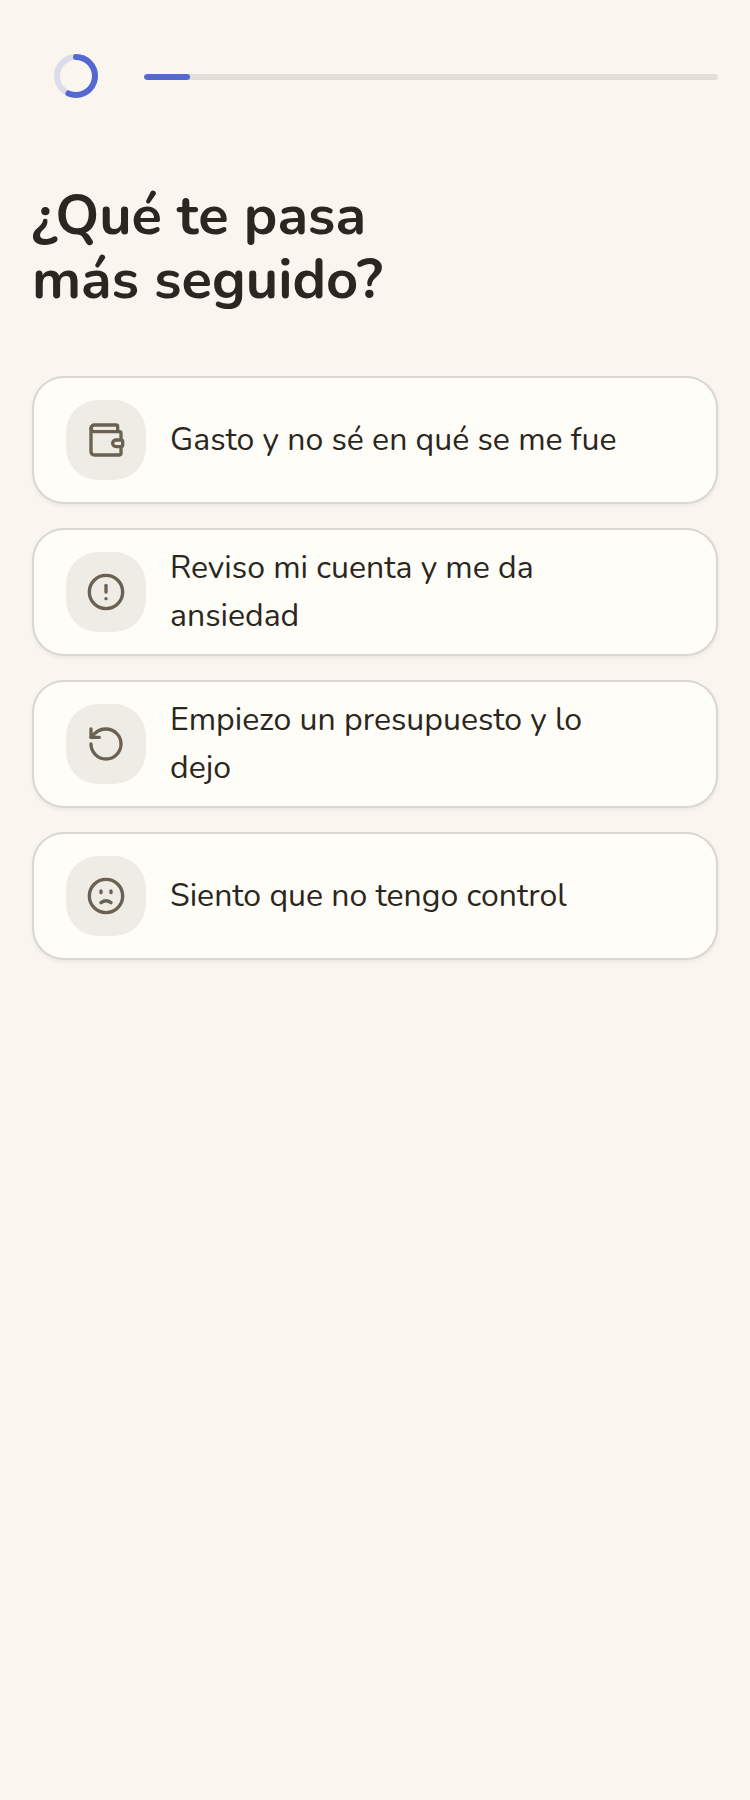
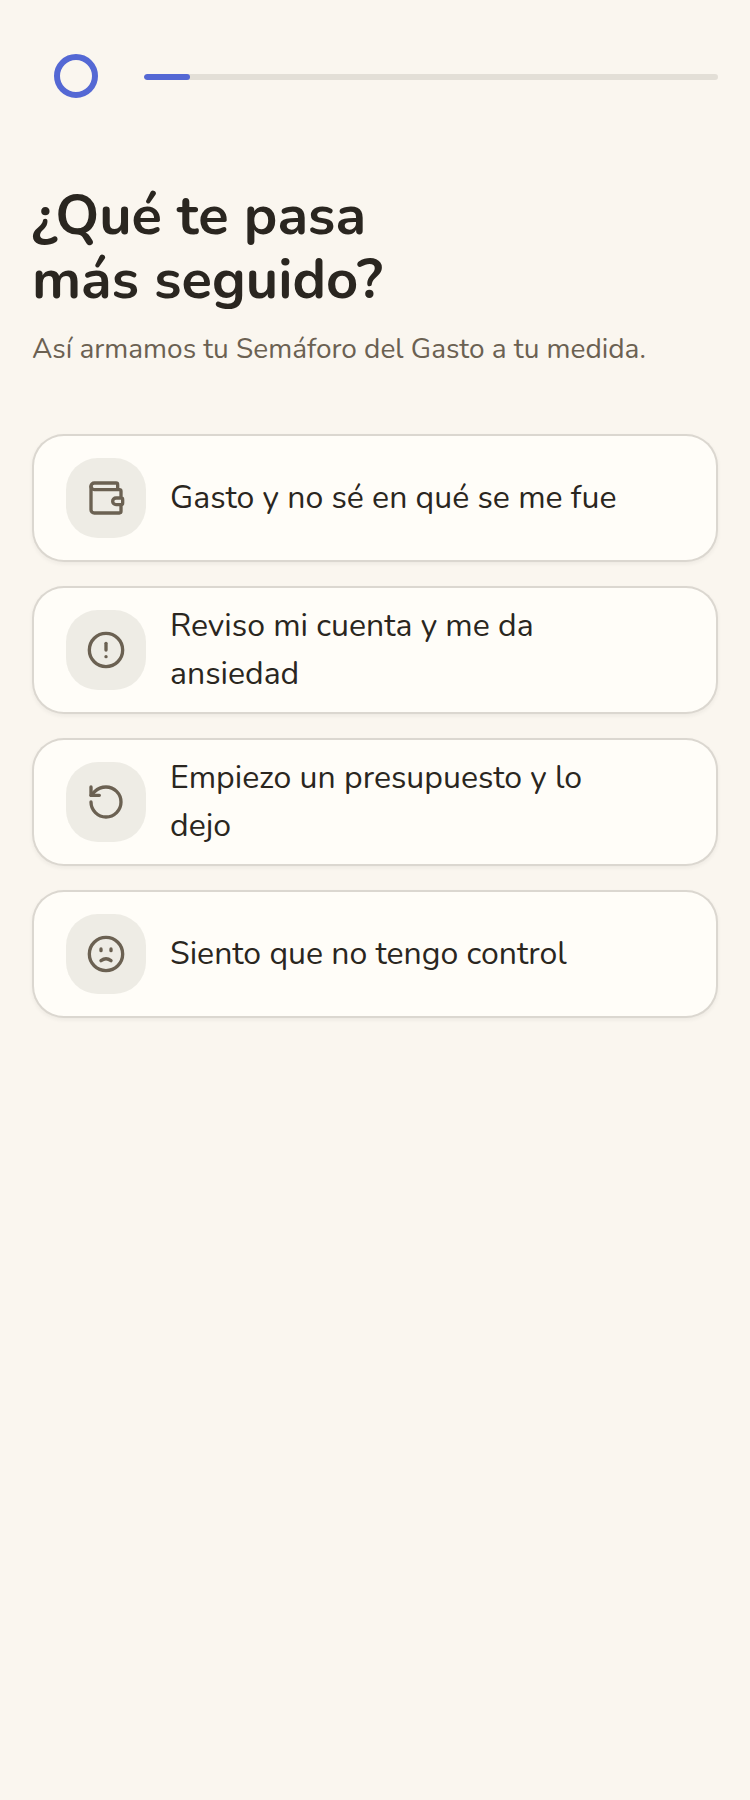
fix: 2ª ronda de correcciones en onboarding y paywall
- RespiraMark: nuevo prop `estatico` (anillo cerrado, sin animación) para
  usarlo junto a una barra de progreso real sin duplicar la señal de carga.
- FunnelScreen: agrega fondo con profundidad (mesh radial + eco del anillo)
  para que los pasos cortos no queden en un plano vacío.
- Onboarding paso 0: agrega línea de contexto, igual que el resto de pasos.
- Paywall: feedback táctil (whileTap) en las cards de plan y shadow-2 en la
  card seleccionada para un segundo nivel de elevación real.

Claude-Session: https://claude.ai/code/session_013BYtLeMwZuWh58hVzwvyD5

diff --git a/app/paywall/page.tsx b/app/paywall/page.tsx
@@ -135,13 +135,14 @@ export default function Paywall() {
           {/* Cards de plan */}
           <Bloque indice={2} reduce={reduce}>
             <div className="flex flex-col gap-3">
-              <button
+              <motion.button
                 type="button"
+                whileTap={{ scale: 0.98 }}
                 onClick={() => setPlan('anual')}
-                className={`relative rounded-[var(--radius-card)] border p-5 text-left shadow-[var(--shadow-1)] transition-colors ${
+                className={`relative rounded-[var(--radius-card)] border p-5 text-left transition-colors [touch-action:manipulation] ${
                   plan === 'anual'
-                    ? 'border-2 border-[var(--accent)] bg-[color-mix(in_oklab,var(--accent)_6%,transparent)]'
-                    : 'border-[color-mix(in_oklab,var(--text-tertiary)_25%,transparent)] bg-[var(--surface)]'
+                    ? 'border-2 border-[var(--accent)] bg-[color-mix(in_oklab,var(--accent)_6%,transparent)] shadow-[var(--shadow-2)]'
+                    : 'border-[color-mix(in_oklab,var(--text-tertiary)_25%,transparent)] bg-[var(--surface)] shadow-[var(--shadow-1)]'
                 }`}
               >
                 <span className="absolute -top-[10px] left-5 rounded-full bg-[var(--accent)] px-3 py-1 text-[11px] font-bold uppercase tracking-[0.06em] text-[var(--bg)]">
@@ -156,15 +157,16 @@ export default function Paywall() {
                 </div>
                 <p className="mt-1 text-[13px] text-[var(--text-secondary)]">{PLAN_ANUAL.totalAnual}</p>
                 <p className="mt-1 text-[13px] font-semibold text-[var(--accent)]">{PLAN_ANUAL.ahorro}</p>
-              </button>
+              </motion.button>
 
-              <button
+              <motion.button
                 type="button"
+                whileTap={{ scale: 0.98 }}
                 onClick={() => setPlan('mensual')}
-                className={`rounded-[var(--radius-card)] border p-5 text-left shadow-[var(--shadow-1)] transition-colors ${
+                className={`rounded-[var(--radius-card)] border p-5 text-left transition-colors [touch-action:manipulation] ${
                   plan === 'mensual'
-                    ? 'border-2 border-[var(--accent)] bg-[color-mix(in_oklab,var(--accent)_6%,transparent)]'
-                    : 'border-[color-mix(in_oklab,var(--text-tertiary)_25%,transparent)] bg-[var(--surface)]'
+                    ? 'border-2 border-[var(--accent)] bg-[color-mix(in_oklab,var(--accent)_6%,transparent)] shadow-[var(--shadow-2)]'
+                    : 'border-[color-mix(in_oklab,var(--text-tertiary)_25%,transparent)] bg-[var(--surface)] shadow-[var(--shadow-1)]'
                 }`}
               >
                 <div className="flex items-center justify-between gap-3">
@@ -174,7 +176,7 @@ export default function Paywall() {
                     <span className="text-[13px] font-normal text-[var(--text-secondary)]">/mes</span>
                   </span>
                 </div>
-              </button>
+              </motion.button>
             </div>
           </Bloque>
 

diff --git a/components/funnel/ui.tsx b/components/funnel/ui.tsx
@@ -35,7 +35,7 @@ export function FunnelHeader({
           </button>
         ) : (
           <a href="/" className="flex size-11 shrink-0 items-center justify-center [touch-action:manipulation]">
-            <RespiraMark duracionS={0.35} />
+            <RespiraMark estatico />
           </a>
         )}
         <div className="h-[3px] flex-1 overflow-hidden rounded-full bg-[color-mix(in_oklab,var(--text-tertiary)_14%,transparent)]">
@@ -163,7 +163,22 @@ export function FunnelScreen({
 }) {
   const reduce = useReducedMotion();
   return (
-    <div className="flex min-h-dvh flex-col bg-[var(--bg)] text-[var(--text-primary)] [font-family:var(--font-body)]">
+    <div className="relative flex min-h-dvh flex-col overflow-hidden bg-[var(--bg)] text-[var(--text-primary)] [font-family:var(--font-body)]">
+      {/* Fondo con profundidad (FICHA-ARTE: "sombras suaves tintadas") — mesh sutil
+          + eco del anillo de marca a baja opacidad, para que ningún paso corto
+          quede en un plano vacío. */}
+      <div
+        aria-hidden="true"
+        className="pointer-events-none absolute inset-0 -z-10"
+        style={{
+          background:
+            'radial-gradient(760px 480px at 50% -10%, color-mix(in oklab, var(--accent) 7%, transparent) 0%, transparent 60%), ' +
+            'radial-gradient(560px 420px at 100% 100%, color-mix(in oklab, var(--accent-2) 6%, transparent) 0%, transparent 55%)',
+        }}
+      />
+      <svg aria-hidden="true" viewBox="0 0 200 200" className="pointer-events-none absolute -bottom-24 -right-16 -z-10 size-[320px] opacity-[0.08]">
+        <circle cx="100" cy="100" r="86" fill="none" stroke="var(--accent)" strokeWidth="14" />
+      </svg>
       <FunnelHeader progreso={progreso} onBack={onBack} />
       <motion.div
         key={stepKey}

diff --git a/components/RespiraMark.tsx b/components/RespiraMark.tsx
@@ -10,10 +10,28 @@ import { motion, useInView, useReducedMotion } from 'motion/react';
 const CIRC = 44.7;
 const OBJETIVO = 11.2; // ~75% lleno
 
-export function RespiraMark({ duracionS = 0.9 }: { duracionS?: number }) {
+export function RespiraMark({
+  duracionS = 0.9,
+  estatico = false,
+}: {
+  duracionS?: number;
+  /** true = marca en reposo, anillo CERRADO y quieto — para headers junto a una
+   * barra de progreso real (dos elementos "a medio llenar" a la vez se leen como
+   * loaders duplicados). Sin esto, el gesto de "se llena al entrar" es el correcto
+   * (Hero, /entrar). */
+  estatico?: boolean;
+}) {
   const ref = useRef<SVGSVGElement>(null);
   const inView = useInView(ref, { once: true, amount: 0.8 });
   const reduce = useReducedMotion();
+
+  if (estatico) {
+    return (
+      <svg width="24" height="24" viewBox="0 0 24 24" fill="none" aria-hidden="true">
+        <circle cx="12" cy="12" r="9.5" stroke="var(--accent)" strokeWidth="3" />
+      </svg>
+    );
+  }
 
   return (
     <svg ref={ref} width="24" height="24" viewBox="0 0 24 24" fill="none" aria-hidden="true">

diff --git a/app/onboarding/page.tsx b/app/onboarding/page.tsx
@@ -48,6 +48,7 @@ export default function Onboarding() {
         <h1 className="text-balance text-[28px] font-bold leading-[1.15] text-[var(--text-primary)] [font-family:var(--font-display)]">
           ¿Qué te pasa más seguido?
         </h1>
+        <p className="mt-2 text-[14px] text-[var(--text-secondary)]">Así armamos tu Semáforo del Gasto a tu medida.</p>
         <div className="mt-8 flex flex-col gap-3">
           {OPCIONES_DOLOR.map((o, i) => (
             <OptionChip

diff --git a/docs/revisiones/onboarding-veredicto.md b/docs/revisiones/onboarding-veredicto.md
@@ -1,16 +1,9 @@
 # VEREDICTO revisor-visual — onboarding
-Fecha: 2026-09-17 12:00
+Fecha: 2026-09-17 00:00
 Screenshot: docs/revisiones/onboarding-375.png
-Usabilidad: 27/40
-Craft: 12/20
+Usabilidad: 30/40
+Craft: 13/20
 Copy (si vende): N-A
 Fidelidad (si hubo referencia): N-A
 Veredicto: NO LISTA
-Top defectos:
-1. [Composición general, mitad superior de la pantalla] ~35-40% del alto (entre la barra de progreso y el título) queda vacío sin ningún elemento, fondo plano puro — un usuario cualquiera lo nota sin buscarlo → cambiar `justify-center` por `justify-start` con padding fijo, o llenar ese espacio con un elemento de contexto (no dejarlo como resultado accidental del centrado vertical).
-2. [Las 4 opciones de respuesta] Aparecen todas juntas en un único bloque animado (mismo `stepKey` en FunnelScreen, sin stagger por ítem) — viola la animación baseline obligatoria "stagger de entrada 50-80ms" exigida para toda pantalla, y esta es la primera de su tipo en el proyecto → envolver el `.map(OPCIONES_DOLOR)` con delay incremental por índice (framer/motion `staggerChildren` o `delay: i * 0.06`) en app/onboarding/page.tsx u OptionChip.
-3. [Header, esquina superior izquierda] `RespiraMark` anima su anillo de 0%→75% en 900ms al entrar; en un frame estático (como el capturado) se lee como un spinner de carga, ambigüedad de "¿se colgó?" → acortar a <400ms o encadenarlo al mismo stagger de entrada para no dejar un frame parecido a loading.
-4. [Chips de opción vs. fondo] La superficie de los chips (#FFFDF8) y el fondo (#FAF6EF) son casi idénticos a la vista; solo se distinguen por un borde fino, sin la sombra tintada que exige FICHA-ARTE.md ("sombras suaves tintadas... nunca borde duro gris") → aplicar box-shadow sutil tintado (rgb 42,38,32 según ficha) a OptionChip en components/funnel/ui.tsx.
-5. [Opción "Empiezo un presupuesto y lo dejo"] Usa la palabra "presupuesto", listada explícitamente como vetada en FICHA-AVATAR.md ("jerga financiera técnica... el ángulo es emocional, no contable"); aunque ecoa la cita literal del dolor #3 de la propia ficha, hay una contradicción sin resolver entre el veto y el copy → reescribir en registro emocional (ej. "Intento organizarme y lo dejo a la semana") o resolver la contradicción en la ficha misma.
-
-Nota de método (no cuenta como defecto de diseño): el screenshot incluye el ícono de dev tools de Next.js (círculo negro "N", esquina inferior izquierda) — recapturar en modo producción o recortando ese overlay antes de la próxima revisión, para no contaminar el juicio visual.
+Top defectos: 1) Logo (header, esquina sup. izq.) sigue leyéndose como spinner de carga: la forma en reposo (anillo al 75%, arco incompleto) es idéntica a un loader a medio camino; el fix solo aceleró la animación (0.9s→0.35s) sin cambiar la forma que causa la confusión, y queda pegado a una barra de progreso real que refuerza la lectura de "algo está cargando". 2) El vacío muerto no se eliminó, se trasladó: los 4 chips terminan en ~60% de la altura y el ~40% inferior queda cream sólido sin ningún elemento — mismo síntoma (aire muerto) en otra posición. 3) Fondo de un solo fill plano (#FAF6EF) sin el mesh/tinte de profundidad que pide FICHA-ARTE; solo existe un nivel (chip elevado con shadow-1), falta base con textura y no hay nivel hundido — eje profundidad no pasa el gate. 4) Inconsistencia de ayuda contextual entre pasos: el paso 2 explica por qué se pregunta ("Así ajustamos cuándo te recordamos...") pero el paso 0 (esta pantalla) no da ningún contexto de por qué se pregunta esto primero. 5) La ficha que sustenta la excepción de "presupuesto" (FICHA-AVATAR.md) sigue en estado BORRADOR / "Aprobada por el usuario: NO" — la traza de copy de esta pantalla descansa sobre una ficha no cerrada.

diff --git a/docs/revisiones/paywall-veredicto.md b/docs/revisiones/paywall-veredicto.md
@@ -1,14 +1,14 @@
 # VEREDICTO revisor-visual — paywall
 Fecha: 2026-09-17 00:00
 Screenshot: docs/revisiones/paywall-375.png
-Usabilidad: 31/40
-Craft: 12/20
-Copy (si vende): 16/20
+Usabilidad: 32/40
+Craft: 16/20
+Copy (si vende): 19/20
 Fidelidad (si hubo referencia): N-A
 Veredicto: NO LISTA
 Top defectos:
-1. [Headline, app/paywall/page.tsx L86] Bug de copy verificado en código: cuando meta="ahorrar", el template genera "Tu Semáforo del Gasto para ahorrar para algo está listo" (doble "para" en el texto más visible de la pantalla) → reformular el template o los labels de meta para evitar la duplicación.
-2. [Zona timeline/CTA, esquina inferior izquierda] Insignia negra circular "N" (indicador de dev de Next.js) queda superpuesta sobre el bloque de trial y el botón CTA en la captura oficial de revisión → desactivar devIndicators o capturar desde build de producción.
-3. [Value-stack, plan cards, timeline — toda la pantalla] Las 3 cards usan solo borde plano de 1px; --shadow-1/--shadow-2 de FICHA-ARTE nunca se aplican, contradiciendo "sombras suaves tintadas" documentadas → aplicar shadow-[var(--shadow-1)] a las superficies elevadas.
-4. [Bloque completo tras el header] Value-stack, planes, timeline y CTA entran en un único motion.div sin stagger entre bloques, incumpliendo la baseline no negociable de entrada escalonada → envolver cada bloque en su propio motion con delay incremental de 60-80ms.
-5. [Copy, pantalla completa] El copy describe el producto (Semáforo, planes, precios) sin re-nombrar la escena de dolor exacta del avatar (gasto por ansiedad/culpa) antes de resolver → eje EMOCIÓN queda en 2/4, incumple "ningún eje ≤2" del gate de copy → agregar una línea corta de dolor bajo el subtítulo antes del value-stack.
+1. [Cards "Anual"/"Mensual" — selector de plan, app/paywall/page.tsx L138-177] Son <button> planos sin motion.whileTap (a diferencia de OptionChip/FunnelButton del mismo kit) → envolver en motion.button con whileTap={{ scale: 0.98 }} para feedback táctil consistente en toda la pantalla.
+2. [Value-stack, plan cards, timeline — toda la pantalla] --shadow-1 (opacidad 0.06) es casi imperceptible a 375px; las 3 superficies elevadas se sienten casi al mismo plano que el fondo → usar --shadow-2 al menos en la card de plan seleccionada (Anual) para un 2º nivel de elevación real, no solo el borde de color.
+3. [Gobernanza de copy, no visible en la captura pero bloqueante] FICHA-AVATAR.md sigue "Estado: BORRADOR" / "Aprobada por el usuario: NO", y la nueva línea de dolor ("Para que no vuelvas a decir «...»") ya se muestra en esta pantalla derivada de esa ficha sin aprobar → aprobar FICHA-AVATAR.md (o al menos las frases de dolor/deseo usadas) antes de declarar esta pantalla vendible.
+4. [CTA "Empezar mis 7 días gratis" → onClick] No hay ningún patrón de error/reintento definido en el código para cuando falle la navegación o, a futuro, el checkout real (el comentario del archivo dice que se conecta en Sesión 6) → dejar al menos el patrón de error documentado en ESTADO.md antes de conectar Hotmart, para no llegar a ese momento sin diseño de error.
+5. [X arriba-izquierda y "Ahora no" abajo] Ambos ejecutan exactamente router.push('/') — no hay forma de volver a editar las respuestas del quiz (dolor/meta) si el usuario duda antes de decidir → diferenciar los dos caminos o eliminar la redundancia.

diff --git a/ESTADO.md b/ESTADO.md
@@ -1,7 +1,7 @@
 # ESTADO — Respira
 Última actualización: 2026-09-17 | Sesión actual: 1
 
-⏸ CHECKPOINT — Sesión 4 EN CONSTRUCCIÓN. 1ª pasada del revisor: onboarding NO LISTA (27/40·12/20) y paywall NO LISTA (31/40·12/20·copy 16/20) — se corrigieron TODOS los defectos señalados: onboarding (vacío muerto por over-centrado, sin stagger entre chips, logo con pinta de spinner por 900ms de animación, chips sin sombra, palabra "presupuesto" en tensión con FICHA-AVATAR resuelta con una excepción documentada) y paywall (bug de copy "para ahorrar para algo", insignia de dev de Next.js contaminando capturas — ya desactivada globalmente, cards sin sombra, sin stagger entre bloques, copy sin nombrar el dolor exacto — se agregó línea que ecoa la respuesta real). tsc ✓ build ✓ · recapturado y verificado visualmente en navegador. Se lanzó la 2ª pasada del revisor para ambas — EN CURSO. / Siguiente acción exacta: leer los veredictos; si LISTA en ambas, actualizar puertas de etapa y cerrar Sesión 4; si no, seguir corrigiendo. Commit+push pendiente tras este checkpoint.
+⏸ CHECKPOINT — Sesión 4 EN CONSTRUCCIÓN, 3ª pasada del revisor en curso para onboarding y paywall. Progreso: 2ª pasada dio onboarding 30/40·13/20 (NO LISTA) y paywall 32/40·craft 16/20 ya pasa·copy 19/20 ya pasa (NO LISTA solo por usabilidad). Se corrigieron: onboarding (logo estático sin pinta de spinner via `RespiraMark estatico`, fondo con profundidad + eco del anillo en FunnelScreen para el vacío inferior, línea de contexto en paso 0) y paywall (whileTap en las cards de plan, shadow-2 en la card seleccionada para 2º nivel de elevación). 3 defectos de paywall quedaron aceptados a propósito (FICHA-AVATAR sin aprobar — pendiente de negocio ya rastreado; sin manejo de error de checkout — Sesión 6; X y "Ahora no" al mismo destino — no hay app limitada todavía). tsc ✓ build ✓ · recapturado y verificado visualmente. / Siguiente acción exacta: leer los veredictos de la 3ª pasada; si LISTA en ambas, cerrar Sesión 4 (actualizar puertas de etapa) y commit+push; si no, evaluar si conviene seguir iterando o aceptar un techo similar al de la landing (aprobación del usuario en sustancia).
 
 ## Qué es esta app (3 líneas máximo)
 App de hábito diario que acompaña a mujeres 25-35 LATAM a dejar de gastar por ansiedad: check-in emocional diario + seguimiento simple de 1-2 metas de ahorro/deuda, sin conectar cuenta bancaria. Freemium con suscripción mensual/anual.
